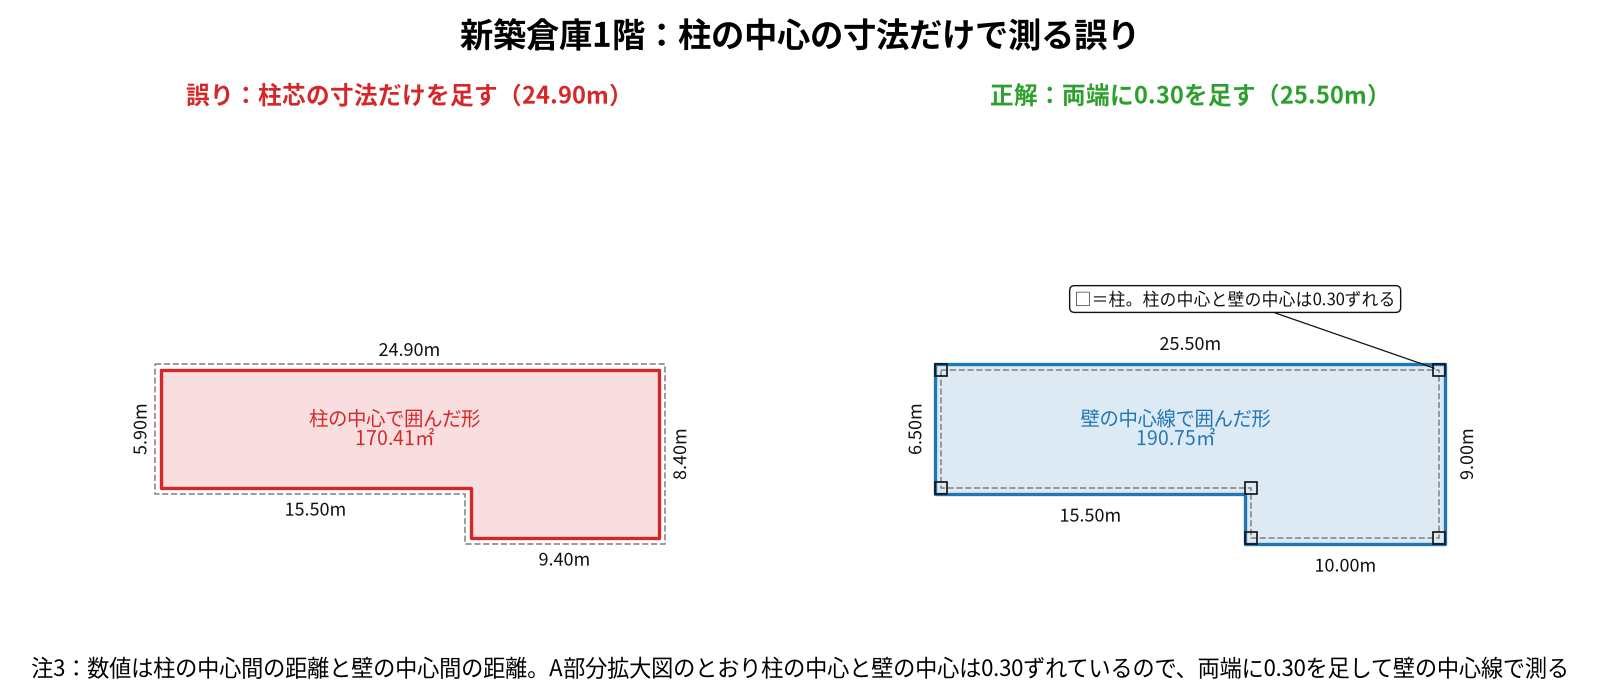
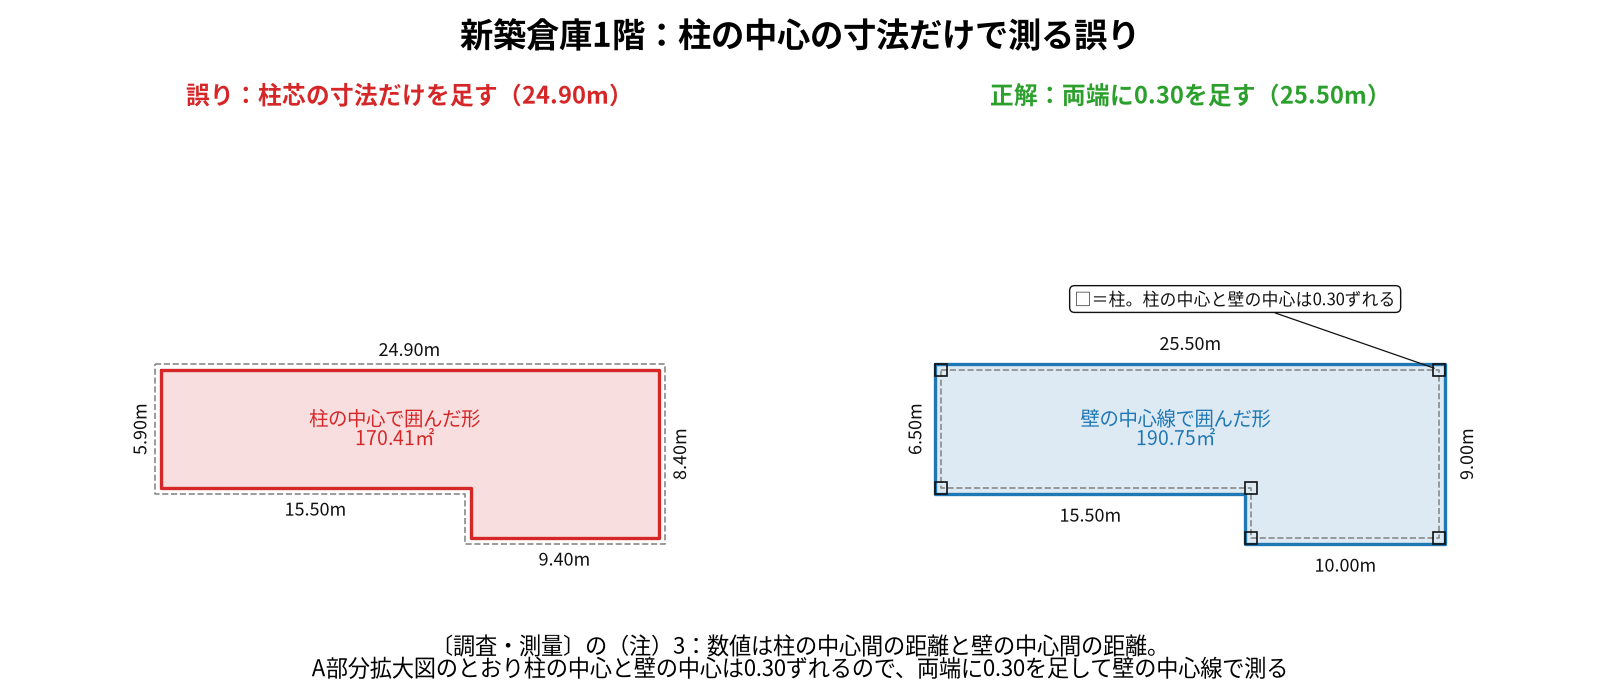
R7 Q22: 最新の依頼文・執筆プロンプトと照らし合わせた追加作業
記事と解説図の「左下」を東西南北に直し、問題文の注と〔調査・測量〕の図の注を書き分けた。
まとめの時間配分を具体化し、図6「本番で解く順番」を追加（解説図6枚）。建物図面を描かない理由、
標準セットの図を作らない理由を記事・解説図プロンプトに書いた。添削プロンプトの記号を直し、
照合スクリプトに付属プロンプトの記入データ・頂点座標の面積・禁止語・注の書き分け・体裁・
タイトルの引用の確認を追加（NG 0件）。執筆プロンプト・チェックリスト・依頼文にも反映。

Claude-Session: https://claude.ai/code/session_01VRYjoJW5nRiB2usgxjoTN7

Changed region(s): [[0.0, 0.9, 0.9688, 0.99]]

diff --git a/note-articles-Kijyutsu/R7/Q22/zu/draw_R7_dai22mon_kaisetsuzu.py b/note-articles-Kijyutsu/R7/Q22/zu/draw_R7_dai22mon_kaisetsuzu.py
@@ -1,6 +1,6 @@
-"""令和7年度 第22問（建物）の解説図5枚を、辺長・頂点座標から作図してPNGに書き出す。
+"""令和7年度 第22問（建物）の解説図6枚を、辺長・頂点座標から作図してPNGに書き出す。
 
-`../prompt_R7_dai22mon_kaisetsuzu.md` の図1〜図5どおり。作図の共通部品は `tools/zu_helpers.py`。
+`../prompt_R7_dai22mon_kaisetsuzu.md` の図1〜図6どおり。作図の共通部品は `tools/zu_helpers.py`。
 建物の座標は (東, 南) で持ち、zu_helpers の (北, 東) には P() で変換する（北 ＝ −南）。
 実行: python3 note-articles-Kijyutsu/R7/Q22/zu/draw_R7_dai22mon_kaisetsuzu.py [出力フォルダ]
 """
@@ -170,7 +170,7 @@ assert round(area(VOID_SW) + area(VOID_SE), 2) == 34.00
 
 def zu03():
     fig, axes = new_figure('新築倉庫1階：柱の中心の寸法だけで測る誤り',
-                           '注3：数値は柱の中心間の距離と壁の中心間の距離。A部分拡大図のとおり柱の中心と壁の中心は0.30ずれているので、両端に0.30を足して壁の中心線で測る',
+                           '〔調査・測量〕の（注）3：数値は柱の中心間の距離と壁の中心間の距離。\nA部分拡大図のとおり柱の中心と壁の中心は0.30ずれるので、両端に0.30を足して壁の中心線で測る',
                            w=16, h=7, ncols=2)
     fig.subplots_adjust(top=0.84)
     z = Zu(axes[0], fontsize=13)
@@ -245,10 +245,53 @@ def zu05():
     save(fig, [z], 'R7_dai22mon_zu05_souko_2kai_kyuuseki')
 
 
+def zu06():
+    """本番で解く順番（どこまで倉庫の求積なしで書けるか）。固定配置の図なので重なり検査の対象外。"""
+    fig = plt.figure(figsize=(16, 8), dpi=100)
+    fig.patch.set_facecolor('white')
+    fig.suptitle('本番で解く順番　倉庫の求積と作図は後に回す', fontsize=24, weight='bold', y=0.965)
+    ax = fig.add_axes([0.03, 0.20, 0.94, 0.70])
+    ax.set_xlim(0, 100)
+    ax.set_ylim(0, 100)
+    ax.axis('off')
+    steps = [
+        ('①', '問4の穴埋め', '第4欄 ア〜エ', BLUE),
+        ('②', '建物ごとの\n時系列メモ', '事実関係を整理', BLUE),
+        ('③', '問1の申請書', '第1欄\n（符号2は\n138.50−15.00）', BLUE),
+        ('④', '問2の申請書', '第2欄\n（符号5の床面積\nだけ空ける）', GREEN),
+        ('⑤', '倉庫の\n1階・2階の求積', '第2欄 符号5の\n床面積', RED),
+        ('⑥', '問3の\n各階平面図', '第3欄\n符号5・符号6', RED),
+        ('⑦', '見直し', '所在の順序・\n欄番号・符号', GRAY),
+    ]
+    w, h, gap = 12.2, 42, 1.8
+    for i, (no, t, ran, col) in enumerate(steps):
+        x = 1 + i * (w + gap)
+        ax.add_patch(plt.Rectangle((x, 22), w, h, facecolor=col, alpha=0.16, edgecolor=col, lw=2))
+        ax.text(x + w / 2, 22 + h - 4, no, ha='center', va='top', fontsize=26, color=col, weight='bold')
+        ax.text(x + w / 2, 22 + h / 2 - 3, t, ha='center', va='center', fontsize=17)
+        ax.text(x + w / 2, 18, ran, ha='center', va='top', fontsize=14, color=col)
+        if i < len(steps) - 1:
+            ax.annotate('', xy=(x + w + gap - 0.2, 43), xytext=(x + w + 0.2, 43),
+                        arrowprops=dict(arrowstyle='-|>', lw=1.6, color=GRAY))
+    ax.text(1 + 2 * (w + gap) - gap / 2, 76, '倉庫の求積をしなくても書ける', ha='center', fontsize=15, color=BLUE, weight='bold')
+    ax.annotate('', xy=(1 + 4 * (w + gap) - gap, 72), xytext=(1, 72), arrowprops=dict(arrowstyle='<->', lw=1.5, color=BLUE))
+    ax.text(1 + 5 * (w + gap) - gap / 2, 76, 'いちばん時間を食う', ha='center', fontsize=15, color=RED, weight='bold')
+    ax.annotate('', xy=(1 + 6 * (w + gap) - gap, 72), xytext=(1 + 4 * (w + gap), 72),
+                arrowprops=dict(arrowstyle='<->', lw=1.5, color=RED))
+    fig.text(0.5, 0.09, '倉庫の2階は、吹き抜け・腰高壁・格子手すりの階段を図面で1つずつ確かめるので時間がかかる。\n'
+             '先に第1欄・第2欄の大部分と第4欄を書いておけば、倉庫で時間が足りなくなっても申請書の点は取れている。',
+             ha='center', va='center', fontsize=15)
+    path = os.path.join(OUT, 'R7_dai22mon_zu06_toku_junban.png')
+    fig.savefig(path, dpi=100, facecolor='white')
+    plt.close(fig)
+    print('[重なり検査] 図6: 解く順番（固定配置）\n  →', path)
+
+
 if __name__ == '__main__':
     zu01()
     zu02()
     zu03()
     zu04()
     zu05()
+    zu06()
     print('重なり合計:', len(PROBLEMS))

diff --git a/note-articles-Kijyutsu/R7/Q22/note_R7_dai22mon_tatemono_kaisetsu.md b/note-articles-Kijyutsu/R7/Q22/note_R7_dai22mon_tatemono_kaisetsu.md
@@ -113,18 +113,18 @@
 「じゃあ実際に登記申請書を埋めていくわよ。まずは符号2の変化を、正確に数字で押さえるの。〔調査図素図〕（本件工事1―敷地図・建物配置図1）を見なさい」
 
 **藍子**  
-「斜線（ハッチング）の部分が、本件工事1で取り壊した部分……ですよね。主である建物は全体がハッチングされているので、まるごと取壊し。符号2の建物のところにも、左下に小さくハッチングされた四角形があります！」
+「斜線（ハッチング）の部分が、本件工事1で取り壊した部分……ですよね。主である建物は全体がハッチングされているので、まるごと取壊し。符号2の建物のところにも、南西の角に小さくハッチングされた四角形があります！」
 
 **トリ先生**  
 「そこが今回のキモよ。符号2の元々の1階の形を、登記記録の〔各階平面図から抜粋〕で確認しなさい」
 
 **藍子**  
-「はい。符号2の1階は、横19.00m×縦6.50mの長方形（123.50平方メートル）に、左下へ横5.00m×縦3.00mの張り出し部分（15.00平方メートル）がくっついたL字形で、合計138.50平方メートルです。2階は張り出しがない横19.00m×縦6.50mの長方形だけで、123.50平方メートルでした」
+「はい。符号2の1階は、横19.00m×縦6.50mの長方形（123.50平方メートル）に、南西の角から南へ横5.00m×縦3.00mの張り出し部分（15.00平方メートル）がくっついたL字形で、合計138.50平方メートルです。2階は張り出しがない横19.00m×縦6.50mの長方形だけで、123.50平方メートルでした」
 
 **トリ先生**  
-「そして配置図のハッチングは、ちょうどその『左下（南西）の張り出し部分』の位置にぴったり重なっているの。つまり、1階部分の一部の取壊しっていうのは、この5.00m×3.00mの張り出し部分を取り壊した、ということ。ついでに見ておきなさい。この張り出しは、425番6と425番5の境界線をまたいで南の425番5側に飛び出していたの。これを取り壊したから、残った符号2は425番6の土地の上だけに収まることになるわ。あとで所在を書くときに効いてくるから覚えておきなさい」
+「そして配置図のハッチングは、ちょうどその『南西の張り出し部分』の位置にぴったり重なっているの。つまり、1階部分の一部の取壊しっていうのは、この5.00m×3.00mの張り出し部分を取り壊した、ということ。ついでに見ておきなさい。この張り出しは、425番6と425番5の境界線をまたいで南の425番5側に飛び出していたの。これを取り壊したから、残った符号2は425番6の土地の上だけに収まることになるわ。あとで所在を書くときに効いてくるから覚えておきなさい」
 
-> 【画像挿入】符号2の1階について、工事前（19.00m×6.50mの本体に、左下へ5.00m×3.00mの張り出しが付いたL字形、合計138.50㎡）と、工事後（張り出し部分を赤で示して撤去し、19.00m×6.50mの長方形だけが残った状態、123.50㎡）を左右に並べた比較図
+> 【画像挿入】符号2の1階について、工事前（19.00m×6.50mの本体に、南西の角から南へ5.00m×3.00mの張り出しが付いたL字形、合計138.50㎡）と、工事後（張り出し部分を赤で示して撤去し、19.00m×6.50mの長方形だけが残った状態、123.50㎡）を左右に並べた比較図
 
 **藍子**  
 「ということは、符号2の1階の床面積は、138.50から張り出し部分の15.00を引いて……123.50平方メートル！ あれ、2階と同じ数字になりました」
@@ -268,7 +268,7 @@
 「はい！図の外形を見ると、北側は東西いっぱいに広がっていますが、南側は東の部分だけが道路側に張り出しています。西側が浅くて東側が深いL字形です。横幅は……上の寸法の7.20、5.50、2.30、4.90、0.30、4.70を足して、24.90mですね！」
 
 **トリ先生**  
-「ストップ！両端の0.30はどこへ行ったの？ 注3を読みなさい。図面の数値は『柱の中心間の距離及び壁の中心間の距離』。A部分拡大図を見ると、柱の中心と壁の中心は0.30ずれているでしょう。床面積は壁の中心線で囲まれた部分で測るんだから、柱芯の寸法だけ拾って両端の0.30を落としたら、それだけで床面積がまるごと狂うのよ。全部の寸法を柱の中心で拾うと、1階は170.41平方メートル。正解より20.34平方メートルも小さくなるわ」
+「ストップ！両端の0.30はどこへ行ったの？ 〔調査・測量〕の図の（注）3を読みなさい。図面の数値は『柱の中心間の距離及び壁の中心間の距離』。A部分拡大図を見ると、柱の中心と壁の中心は0.30ずれているでしょう。床面積は壁の中心線で囲まれた部分で測るんだから、柱芯の寸法だけ拾って両端の0.30を落としたら、それだけで床面積がまるごと狂うのよ。全部の寸法を柱の中心で拾うと、1階は170.41平方メートル。正解より20.34平方メートルも小さくなるわ」
 
 **藍子**  
 「あっ……0.30を2つ足して、24.90＋0.60＝25.50m。図面の一番外側に書いてある25.50と一致しました！ 縦も同じで、西側は0.30＋1.50＋4.40＋0.30＝6.50m、東側は9.00mです」
@@ -367,13 +367,15 @@
 「符号5は、さっき求めた1階190.75平方メートル、2階156.75平方メートルの形をそのまま250分の1の縮尺で描きます。符号6の守衛所は、元の位置・元の大きさで建て直されたから、4.00m×2.50mの単純な長方形、床面積10.00平方メートルですね」
 
 **トリ先生**  
-「そのとおり。守衛所は形が変わっていないから、求積自体は一番簡単なところよ。気を抜かず、これも忘れずに描きなさい。距離は注4のとおり小数第2位まで書くこと。それと、答案用紙の第3欄をよく見なさい。右半分の『建物図面』の文字が二重線で消されて『各階平面図』になっているでしょう。今回は左右どちらも各階平面図の欄。建物の所在の欄には『Y市K区A町三丁目425番地6、425番地5』と書いておきなさい」
+「そのとおり。守衛所は形が変わっていないから、求積自体は一番簡単なところよ。気を抜かず、これも忘れずに描きなさい。距離は問題文の注4のとおり小数第2位まで書くこと。それと、答案用紙の第3欄をよく見なさい。右半分の『建物図面』の文字が二重線で消されて『各階平面図』になっているでしょう。今回は左右どちらも各階平面図の欄。建物図面は申請書の添付書類には入るけど、問3に『記載することを要しない』とあるから答案には描かないの。建物の所在の欄には『Y市K区A町三丁目425番地6、425番地5』と書いておきなさい」
 
 **藍子**  
 「はい！」
 
 **トリ先生**  
-「今日のまとめよ。この問題最大のわなは、主である建物が消えても、附属建物が残っている限り『滅失登記』にはならないってこと。そして、一時的に取り壊して同じ姿で建て直した建物は、同じ符号のまま生き返るんじゃなくて、新しい符号を持つ別の建物として生まれ変わる。この2つさえ押さえていれば、あとは柱芯と壁芯の0.30のずれ、吹き抜けと腰高壁・格子手すり（階段室といえるか）の区別、耐震補強のような『登記事項に影響しない工事は書かない』というルールを丁寧に拾っていくだけよ。記載量が多いから、問4は最初に埋め、建物ごとの時系列メモを作ってから申請書に向かうこと。所在の地番の入れ替えみたいな細かい書き漏らしは、最後に見直す時間を残しておけば防げるわ」
+「今日のまとめよ。この問題最大のわなは、主である建物が消えても、附属建物が残っている限り『滅失登記』にはならないってこと。そして、一時的に取り壊して同じ姿で建て直した建物は、同じ符号のまま生き返るんじゃなくて、新しい符号を持つ別の建物として生まれ変わる。この2つさえ押さえていれば、あとは柱芯と壁芯の0.30のずれ、吹き抜けと腰高壁・格子手すり（階段室といえるか）の区別、耐震補強のような『登記事項に影響しない工事は書かない』というルールを丁寧に拾っていくだけよ。時間配分も具体的に言っておくわよ。この問題でいちばん時間を食うのは、新築倉庫の2階の求積（どこまでが床か、図面の寸法を拾い直すところ）と、第3欄の各階平面図の作図。逆に、問4、問1の申請書の全部（符号2は15.00を引くだけ）、問2の申請書のうち符号5の床面積以外の欄は、倉庫の求積をしなくても書ける。だから本番は、問4 → 時系列メモ → 問1 → 問2（符号5の床面積だけ空けておく）→ 倉庫の1階・2階の求積 → 問3の作図 → 最後に所在の地番の入れ替えや欄番号の見直し、の順番。倉庫で時間が足りなくなっても、申請書の点は先に取れているわ」
+
+> 【画像挿入】本番で解く順番の図。①問4 → ②時系列メモ → ③問1の申請書 → ④問2の申請書（符号5の床面積だけ空ける）までが「倉庫の求積をしなくても書ける」、⑤倉庫の1階・2階の求積 → ⑥問3の各階平面図が「いちばん時間を食う」、最後に⑦見直し
 
 **藍子**  
 「はい、先生！ 主が消えても記録は生きている、取り壊したら符号もリセット……絶対に忘れません！」

diff --git a/note-articles-Kijyutsu/R7/Q22/prompt_R7_dai22mon_kaisetsuzu.md b/note-articles-Kijyutsu/R7/Q22/prompt_R7_dai22mon_kaisetsuzu.md
@@ -1,18 +1,21 @@
-# 図の作成プロンプト：令和7年度 第22問（建物）解説用の図5枚
+# 図の作成プロンプト：令和7年度 第22問（建物）解説用の図6枚
 
-以下をそのまま貼り付けて使ってください。note記事「【土地家屋調査士受験生向け】令和7年度問題22（建物）〜「主」が消えても滅失登記じゃない〜」に入れる、計算過程を理解するための図を5枚作ります。
+以下をそのまま貼り付けて使ってください。note記事「【土地家屋調査士受験生向け】令和7年度問題22（建物）〜「主」が消えても滅失登記じゃない〜」に入れる、計算過程を理解するための図を6枚作ります。
 
 ※画像生成AI（Midjourney、DALL·E など）では座標・辺長どおりの正確な図は描けません。このプロンプトは「座標値・辺長からプログラムで作図し、PNGに書き出す」方式です。Claude（ファイル作成とコード実行ができる環境）、またはChatGPT／Google AIのコード実行機能（Python・matplotlibを実行できるモード）で使ってください。単なる画像生成（プロンプトだけで絵を描かせる機能）には投げないこと。
 
 ---
 
-あなたは土地家屋調査士試験の教材デザイナーです。下の座標値・辺長に基づいて、note記事「【土地家屋調査士受験生向け】令和7年度問題22（建物）」に挿入する解説用の図を5枚作成してください。
+あなたは土地家屋調査士試験の教材デザイナーです。下の座標値・辺長に基づいて、note記事「【土地家屋調査士受験生向け】令和7年度問題22（建物）」に挿入する解説用の図を6枚作成してください。
 
 - 図1：建物の変遷図（第1章用。2026-09-29追加）
 - 図2：符号2（1階）の一部取壊し読み取り図（第2章用）
 - 図3：新築倉庫1階の誤り比較図「柱の中心／壁の中心」（第4章用。2026-09-29追加）
 - 図4：新築倉庫（符号5）1階の床面積求積図（第4章用）
 - 図5：新築倉庫（符号5）2階の床面積求積図（第4章用）
+- 図6：本番で解く順番（第5章のまとめ用。2026-09-29追加）
+
+執筆プロンプトの「想定する画像の標準セット」のうち、敷地の辺長確認図と建物図面の完成形は作らない。本問は座標値一覧表がなく、敷地の辺長も問題文に書かれていない（調査図素図は筆界から建物までの距離だけ）ので確かめる辺長がないこと、問3で「建物図面については答案用紙第3欄に記載することを要しない」とされていることによる。建物の配置は図1（模式）で見せる。
 
 **生成済み（2026-09-29）**：作図スクリプト `zu/draw_R7_dai22mon_kaisetsuzu.py`（`tools/zu_helpers.py` を使用。重なりの自動検査0件・目視確認済み）で、次のPNGを書き出してある。数値を直すときはスクリプトを直して再実行する。
 
@@ -21,13 +24,14 @@
 - 図3：`zu/R7_dai22mon_zu03_hashirashin_ayamari.png`
 - 図4：`zu/R7_dai22mon_zu04_souko_1kai_kyuuseki.png`
 - 図5：`zu/R7_dai22mon_zu05_souko_2kai_kyuuseki.png`
+- 図6：`zu/R7_dai22mon_zu06_toku_junban.png`（固定配置の図なので重なり検査の対象外。目視確認済み）
 
 ## 作り方
 
 1. Python（matplotlib）で、座標値・辺長から作図する。手で位置を調整してはいけない
 2. 各図をPNGで書き出す
 3. 書き出したPNGを自分で開いて確認する（下の「確認項目」）
-4. 問題があれば直して再出力し、最後に5枚のPNGと作図に使ったPythonファイルを渡す
+4. 問題があれば直して再出力し、最後に6枚のPNGと作図に使ったPythonファイルを渡す
 
 ## 全図に共通するルール
 
@@ -78,7 +82,7 @@
 ```
 
 - 本体（Y：0〜19.00、X：0〜6.50。面積19.00×6.50＝123.50）を薄い青で塗る
-- 左下の張り出し部分（Y：0〜5.00、X：6.50〜9.50。面積5.00×3.00＝15.00）を目立つ半透明の赤で塗り、赤い矢印と「この部分を取り壊す」というラベルを添える
+- 南西の角から南へ出た張り出し部分（Y：0〜5.00、X：6.50〜9.50。面積5.00×3.00＝15.00）を目立つ半透明の赤で塗り、赤い矢印と「この部分を取り壊す」というラベルを添える
 - 数値ラベル：「19.00m」（上辺）、「6.50m」（本体の縦）、「5.00m」（張り出しの横）、「3.00m」（張り出しの縦）
 - 図の下に小さく「工事前 1階：138.50㎡」と入れる
 
@@ -103,7 +107,7 @@
 
 - 左「誤り：柱芯の寸法だけを足す（24.90m）」：柱の中心で囲んだ形 (0.3, 0.3) → (25.2, 0.3) → (25.2, 8.7) → (15.8, 8.7) → (15.8, 6.2) → (0.3, 6.2) を赤で塗り、壁の中心線の形（図4）を灰色の点線で重ねる。寸法「24.90m」「8.40m」「9.40m」「15.50m」「5.90m」、中に「柱の中心で囲んだ形　170.41㎡」（15.50×5.90＋9.40×8.40）
 - 右「正解：両端に0.30を足す（25.50m）」：図4の壁の中心線の形を青で塗り、柱の中心の形を灰色の点線で重ねる。柱の位置（上の6つの角）に小さな四角。寸法「25.50m」「9.00m」「10.00m」「15.50m」「6.50m」、中に「壁の中心線で囲んだ形　190.75㎡」、吹き出し「□＝柱。柱の中心と壁の中心は0.30ずれる」
-- 図の下に「注3：数値は柱の中心間の距離と壁の中心間の距離。A部分拡大図のとおり柱の中心と壁の中心は0.30ずれているので、両端に0.30を足して壁の中心線で測る」
+- 図の下に「〔調査・測量〕の（注）3：数値は柱の中心間の距離と壁の中心間の距離。」「A部分拡大図のとおり柱の中心と壁の中心は0.30ずれるので、両端に0.30を足して壁の中心線で測る」の2行（問題文の注と書き分ける）
 
 ---
 
@@ -172,7 +176,20 @@
 
 ---
 
-## 確認項目（5枚共通）
+## 図6：本番で解く順番
+
+第5章のまとめ、トリ先生が「倉庫で時間が足りなくなっても、申請書の点は先に取れているわ」と言った直後に挿入する図。R7/Q21の図12と同じ形（7つの箱を矢印でつなぎ、上に区間の見出し、箱の下に答える欄）。
+
+- ①問4の穴埋め（第4欄 ア〜エ）、②建物ごとの時系列メモ（事実関係を整理）、③問1の申請書（第1欄。符号2は138.50−15.00）：青
+- ④問2の申請書（第2欄。符号5の床面積だけ空ける）：緑
+- ⑤倉庫の1階・2階の求積（第2欄 符号5の床面積）、⑥問3の各階平面図（第3欄 符号5・符号6）：赤
+- ⑦見直し（所在の順序・欄番号・符号）：灰色
+- ①〜④の上に「倉庫の求積をしなくても書ける」、⑤〜⑥の上に「いちばん時間を食う」
+- 図の下に「倉庫の2階は、吹き抜け・腰高壁・格子手すりの階段を図面で1つずつ確かめるので時間がかかる。」「先に第1欄・第2欄の大部分と第4欄を書いておけば、倉庫で時間が足りなくなっても申請書の点は取れている。」
+
+---
+
+## 確認項目（6枚共通）
 
 PNGを渡す前に、次の点を自分で確認してください。
 
@@ -186,5 +203,5 @@ PNGを渡す前に、次の点を自分で確認してください。
 
 ## 出力
 
-- PNG画像5枚（図1〜図5）
+- PNG画像6枚（図1〜図6）
 - 作図に使ったPythonファイル（後で数値を直せるように）

diff --git a/note-articles-Kijyutsu/qa-checklist-kijutsu.md b/note-articles-Kijyutsu/qa-checklist-kijutsu.md
@@ -189,6 +189,7 @@
 - **鉄骨造の床面積の区画（2026-09-28追加、R4/Q22）**：鉄骨柱の外側が胴縁・被覆材で覆われている建物で、図面の寸法が胴縁の中心からのものなら、胴縁の厚さの半分（R4/Q22は0.05）を両側で引いて柱の外面の寸法にしているか。胴縁の中心線を壁心と取り違えていないか（R4/Q22では5.10×4.10＝20.91ではなく5.00×4.00＝20.00）。構造図に書かれた鉄骨柱中心線からの寸法（ひっかけ）を使っていないか。各階平面図の辺長も柱の外面の寸法（5.00・4.00）で書いているか
 - **階数の変更も構造変更（2026-09-28追加、R4/Q22）**：構成材料・屋根が同じでも、平家建→2階建のように階数が変われば構造変更（不動産登記規則第114条）。原因の欄番号「②」と「構造変更」を落としていないか。用途の変更（事務所→居宅）による種類変更「①」も同時に拾っているか
 - **取壊し済みの符号・旧字の転写（2026-09-29追加、R7/Q22）**：取壊しの登記が済んだ符号（R7/Q22の符号1・3）を新しい附属建物に使い回していないか。取り壊す建物の行を登記記録の旧表記（「葺」）のまま写しているか、その理由を会話で説明しているか
+- **注の書き分けと作らない図（2026-09-29追加、R7/Q22）**：問題文の注と〔調査・測量〕の図の注を書き分けているか（「注3」だけにしていないか）。標準セットの図（敷地の辺長確認図・建物図面の完成形）を作らない年度は、その理由を解説図プロンプトに書いたか
 - **画像の生成（2026-09-29追加、R7/Q22）**：記事の画像挿入マーカー（見出し画像を除く）の数だけPNGが `zu/` にあるか。解説図は重なりの自動検査0件で、目視でも題とパネルの題・文字と線が重なっていないか。申請書の画像の欄の形・日付の書き方が試験の答案用紙どおりか
 - **予備校の解説との見比べ（2026-09-29追加、R7/Q22）**：予備校の解説がある年度は、答えの照合だけで終わらせず、解く順番・時間配分・答案用紙の見慣れない形（申請書が2件、消された欄名など）について、記事に同じ観点があるかを確かめたか
 - **附属建物の符号の付け方（2026-09-28追加、R4/Q22）**：同じ申請書の中で、既存の附属建物（符号1）が「主である建物に合体」等で消える場合でも、新築の附属建物にその符号を使い回さず、次の番号（符号2）を付けているか
@@ -332,6 +333,21 @@
 ## 改善記録（PDCA）
 
 チェックで見つかった誤りの種類と、指示書・執筆プロンプトへの反映を記録する。新しい記録は上に追加する。
+
+**2026-09-29　R7 Q22（建物・会話形式）を最新の依頼文・執筆プロンプトと照らし合わせた追加作業（ユーザー指示）**
+
+- 指示：作成済みのR7第22問のコンテンツ・図解・登記申請書を最新のプロンプトと照らし合わせ、完了していない事項を追加で行う（測量図・申請書の画像がまだなら生成し、不足している画像も作る）
+- 確認：画像はこの日の前の作業で生成済み（解説図5枚・申請書の完成形2枚・添削1枚、`zu/`）。答えは解答例・アガルートの解説とすべて一致（変更なし）
+- 最新ルールと照らして足りなかった点と対応
+  - 記事・解説図プロンプトに「左下（南西）」「左下へ」が残っていた（東西南北で書くルール） → 「南西の角から南へ」に統一
+  - 問題文の注と〔調査・測量〕の図の注を書き分けていなかった（柱芯と壁芯のずれは〔調査・測量〕の（注）3、距離の桁数は問題文の注4なのに、どちらも「注3」「注4」だけ） → 記事・図3の説明文・解説図プロンプトを書き分けた
+  - まとめの時間配分が一般論寄り（「問4を最初に」「見直しの時間を残す」）だった → いちばん時間を食うのが新築倉庫の2階の求積と第3欄の作図で、問1の全部と問2の符号5の床面積以外の欄はそれがなくても書けることを示し、本番の順番（問4 → 時系列メモ → 問1 → 問2 → 倉庫の求積 → 問3の作図 → 見直し）を足した。あわせて図6「本番で解く順番」を作り（R7/Q21の図12と同じ形）、記事に画像挿入マーカーを足した（計9か所）
+  - 建物図面を答案に描かない理由（問3の「記載することを要しない」）を会話に足した。標準セットの敷地の辺長確認図・建物図面の完成形を作らない理由（座標・辺長がない、問3で求めない）を解説図プロンプトに書いた
+  - 添削画像のプロンプトに「✓」の記号が残っていた → SVGで描くチェック印の説明に直した（生成済みの画像は最初からSVG）
+  - 図3の説明文が長く、画像の左右で切れていた → 2行にした
+  - 照合スクリプトが、最新の年度（H25等）の確認項目の一部しか持っていなかった → 申請書・添削・見出し画像プロンプトの記入データ、解説図プロンプトの頂点座標の面積（138.50・123.50・190.75・156.75と柱の中心の170.41）、作図の `fit` がすべて `pad_aspect=True`、禁止語（「左下」「奥側」「創設的登記」「✕」など）、注の書き分け、話者名のハードブレーク、記事の最後の区切り線、記事タイトルの引用を加えた（NG 0件）
+- 照合できなかった項目：なし
+- 新しい気づき：同じ年度の中で、画像を作った後にルールが増えると、図の説明文（キャプション）にも古い書き方が残る。本文だけでなく、作図スクリプトの文字列も照合スクリプトで確かめる
 
 **2026-09-29　R7 Q22（建物・会話形式）の画像を実際に生成（ユーザー指示「不足している画像があれば作成」）**
 

diff --git a/note-articles-Kijyutsu/prompt_note-kijutsu_tatemono_kyoutsu.md b/note-articles-Kijyutsu/prompt_note-kijutsu_tatemono_kyoutsu.md
@@ -77,6 +77,8 @@
 - **主である建物と附属建物の接続（2026-09-28追加、R4/Q22）**：同じ家屋番号の主である建物と附属建物が、増築などでつながって一体として使えるようになっても、不動産登記法第49条の合体の登記（別々に登記された2個以上の建物が1個になる場合）ではない。登記の上では最初から1個の建物なので建物表題部変更登記になり、原因は「符号1の附属建物合体」、附属建物の行は「主である建物に合体」と書く。「合体」という語につられて合体の登記を選ぶ誤り（藍子の誤答にはこの対比を使うと自然）と、原因欄の「合体」の語の区別を会話で示す
 - **鉄骨造の床面積の区画（2026-09-28追加、R4/Q22）**：鉄骨柱の外側が胴縁・被覆材で覆われている建物は、柱の外面を結んだ線で囲まれた部分で床面積を測る。図面の寸法が胴縁の中心からのものなら、胴縁の厚さの半分（R4/Q22は0.05）を両側で引く。胴縁の中心線を壁心と取り違える誤り（R4/Q22の5.10×4.10＝20.91）と、構造図の鉄骨柱中心線からの寸法（ひっかけ）に注意。構造図の寸法線は、どの線からどの線までかを高解像度で拡大して確かめる
 - **階数の変更も構造変更（2026-09-28追加、R4/Q22）**：構成材料・屋根が同じでも、階数が変われば構造変更（不動産登記規則第114条）。附属建物の2階が主である建物に取り込まれて平家建→2階建になる場合など。用途の変更による種類変更と合わせて、原因の欄番号（①②③）と原因を漏らさない
+- **注の書き分け（2026-09-29追加、R7/Q22）**：問題文の（注）と、〔調査・測量〕などの図に付いた（注）は、同じ番号でも別物。会話では「問題文の注4」「〔調査・測量〕の図の（注）3」のように、どちらの注かを必ず書き分ける（R7/Q22で、柱芯・壁芯の注と距離の桁数の注を、どちらも「注3」「注4」とだけ書いていた）
+- **標準セットの図を作らない年度（2026-09-29追加、R7/Q22）**：座標値一覧表や敷地の辺長がなく、問3で建物図面を求めない年度は、敷地の辺長確認図・建物図面の完成形を作らなくてよい。その場合は、作らない理由を解説図プロンプトの冒頭に書く（照合スクリプトで確認する）
 - **取壊し済みの符号は使い回さない（2026-09-29追加、R7/Q22）**：取壊しの登記が済んだ符号（R7/Q22の符号1・3）が空いていても、新しい附属建物に使い回さない。これまでで最も大きい番号の次から付ける
 - **旧字の転写（2026-09-29追加、R7/Q22）**：取り壊して消える建物の行は、登記記録の「葺」などの旧表記をそのまま写す。同じ申請書でも、登記記録で「ぶき」と書かれている建物の行は「ぶき」。記事本文の常用漢字ルールより登記記録どおりの転写を優先し、その理由を会話で説明する
 - **附属建物の符号（2026-09-28追加、R4/Q22）**：同じ申請書の中で既存の附属建物（符号1）が主である建物に合体して消えても、新築の附属建物には次の番号（符号2）を付ける

diff --git a/note-articles-Kijyutsu/README.md b/note-articles-Kijyutsu/README.md
@@ -238,15 +238,15 @@ note-articles-Kijyutsu/
     │   └── zu/                                          解説図12枚のPNGと、作図の参照実装 draw_R7_dai21mon_kaisetsuzu.py（fit(..., pad_aspect=True)）。登記申請書の完成形・添削画像のPNGとHTML（R7_dai21mon_toukishinseisho_kansei／_machigai）と生成スクリプト make_R7_dai21mon_shinseisho_gazou.py
     └── Q22/
         ├── note_R7_dai22mon_tatemono_kaisetsu.md              note記事本文（会話形式。アガルート解答例と照合済み）
-        ├── prompt_R7_dai22mon_kaisetsuzu.md                   解説図5枚（変遷図・符号2の一部取壊し・柱芯の誤り比較図・1階/2階求積図）作成プロンプト
+        ├── prompt_R7_dai22mon_kaisetsuzu.md                   解説図6枚（変遷図・符号2の一部取壊し・柱芯の誤り比較図・1階/2階求積図・本番で解く順番）作成プロンプト
         ├── prompt_R7_dai22mon_toukishinseisho_gazou.md        登記申請書画像プロンプト（問1・問2の完成形）
         ├── prompt_R7_dai22mon_toukishinseisho_machigai.md     登記申請書「符号」の誤答→添削→正解の画像プロンプト（3コマを縦に積む）
         ├── prompt_R7_dai22mon_miidashi_gazou.md                note見出し画像（サムネイル）作成プロンプト（1280×670px）
         ├── verify_R7_dai22mon.py                              記事・生成画像（PNG・HTML）の数値・体裁の照合スクリプト
         └── zu/                                                生成済みの画像（第22問で初めて実際に生成）
-            ├── draw_R7_dai22mon_kaisetsuzu.py                 解説図5枚の作図スクリプト（tools/zu_helpers.py を使用）
+            ├── draw_R7_dai22mon_kaisetsuzu.py                 解説図6枚の作図スクリプト（tools/zu_helpers.py を使用）
             ├── make_R7_dai22mon_shinseisho_gazou.py           申請書の完成形2枚・添削1枚の生成スクリプト（HTML＋Playwright）
-            ├── R7_dai22mon_zu01〜zu05_*.png                   解説図5枚
+            ├── R7_dai22mon_zu01〜zu06_*.png                   解説図6枚
             └── R7_dai22mon_toukishinseisho_*.png / .html      申請書の完成形（問1・問2）と添削
 ```
 
